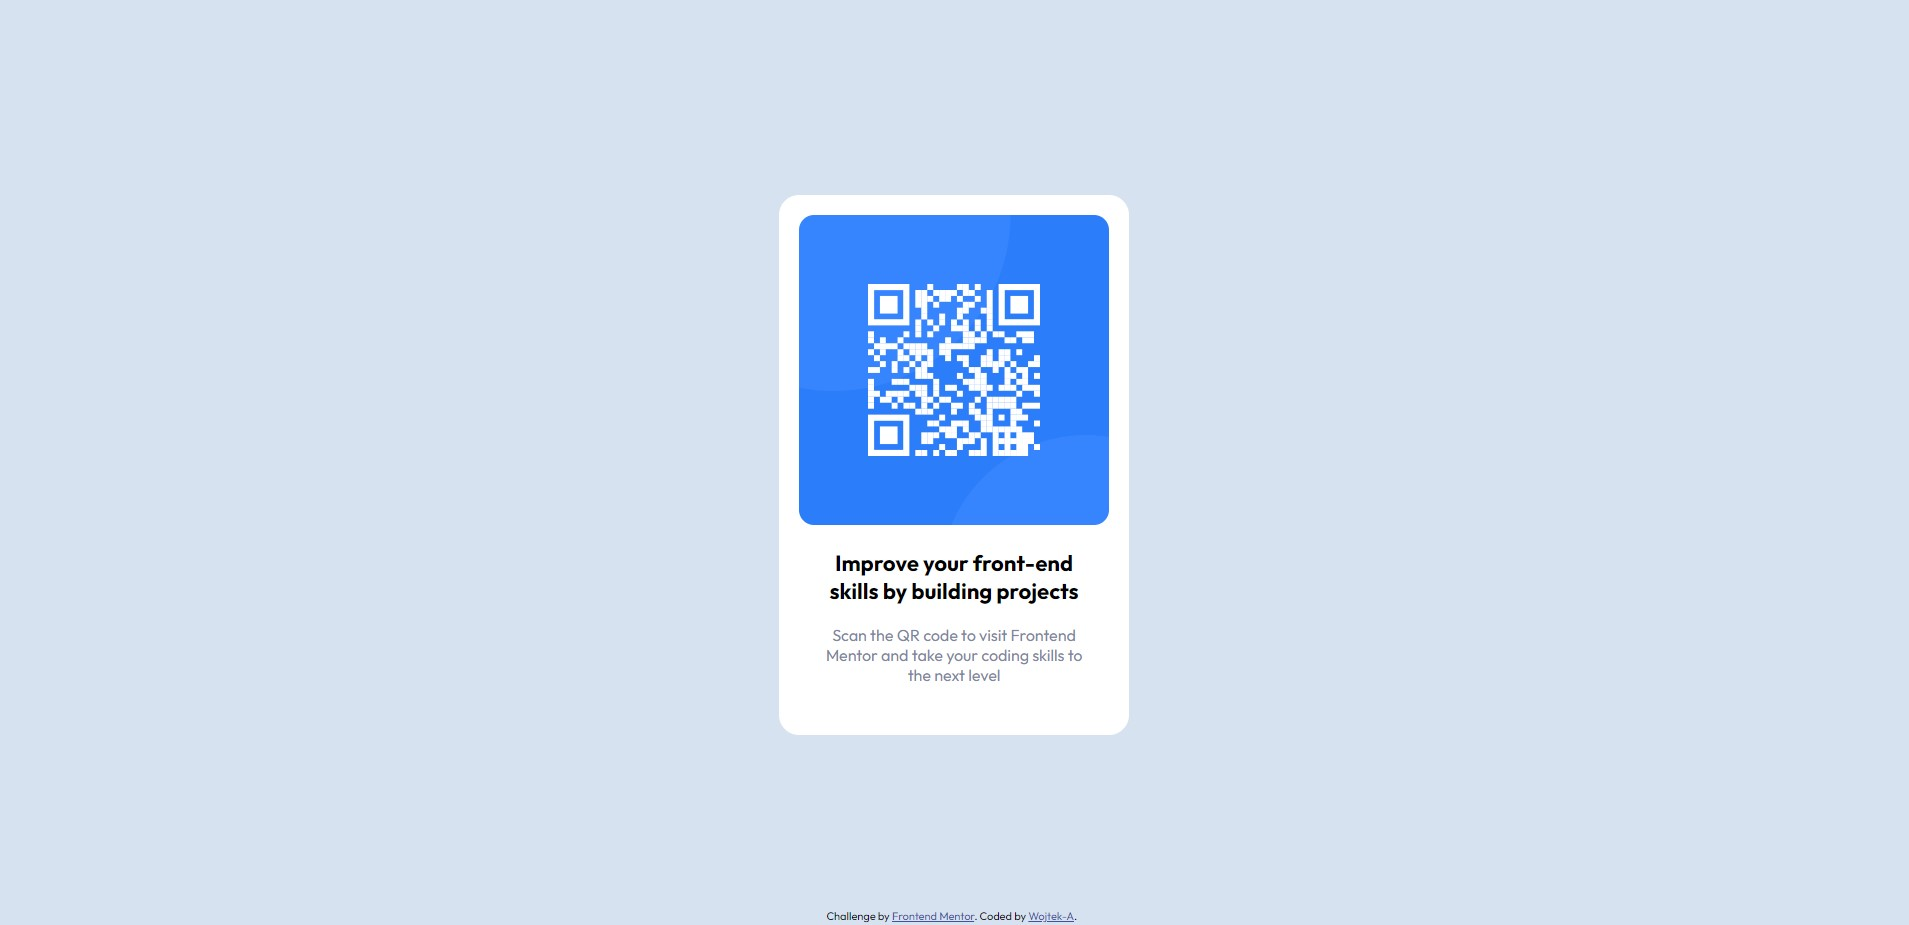
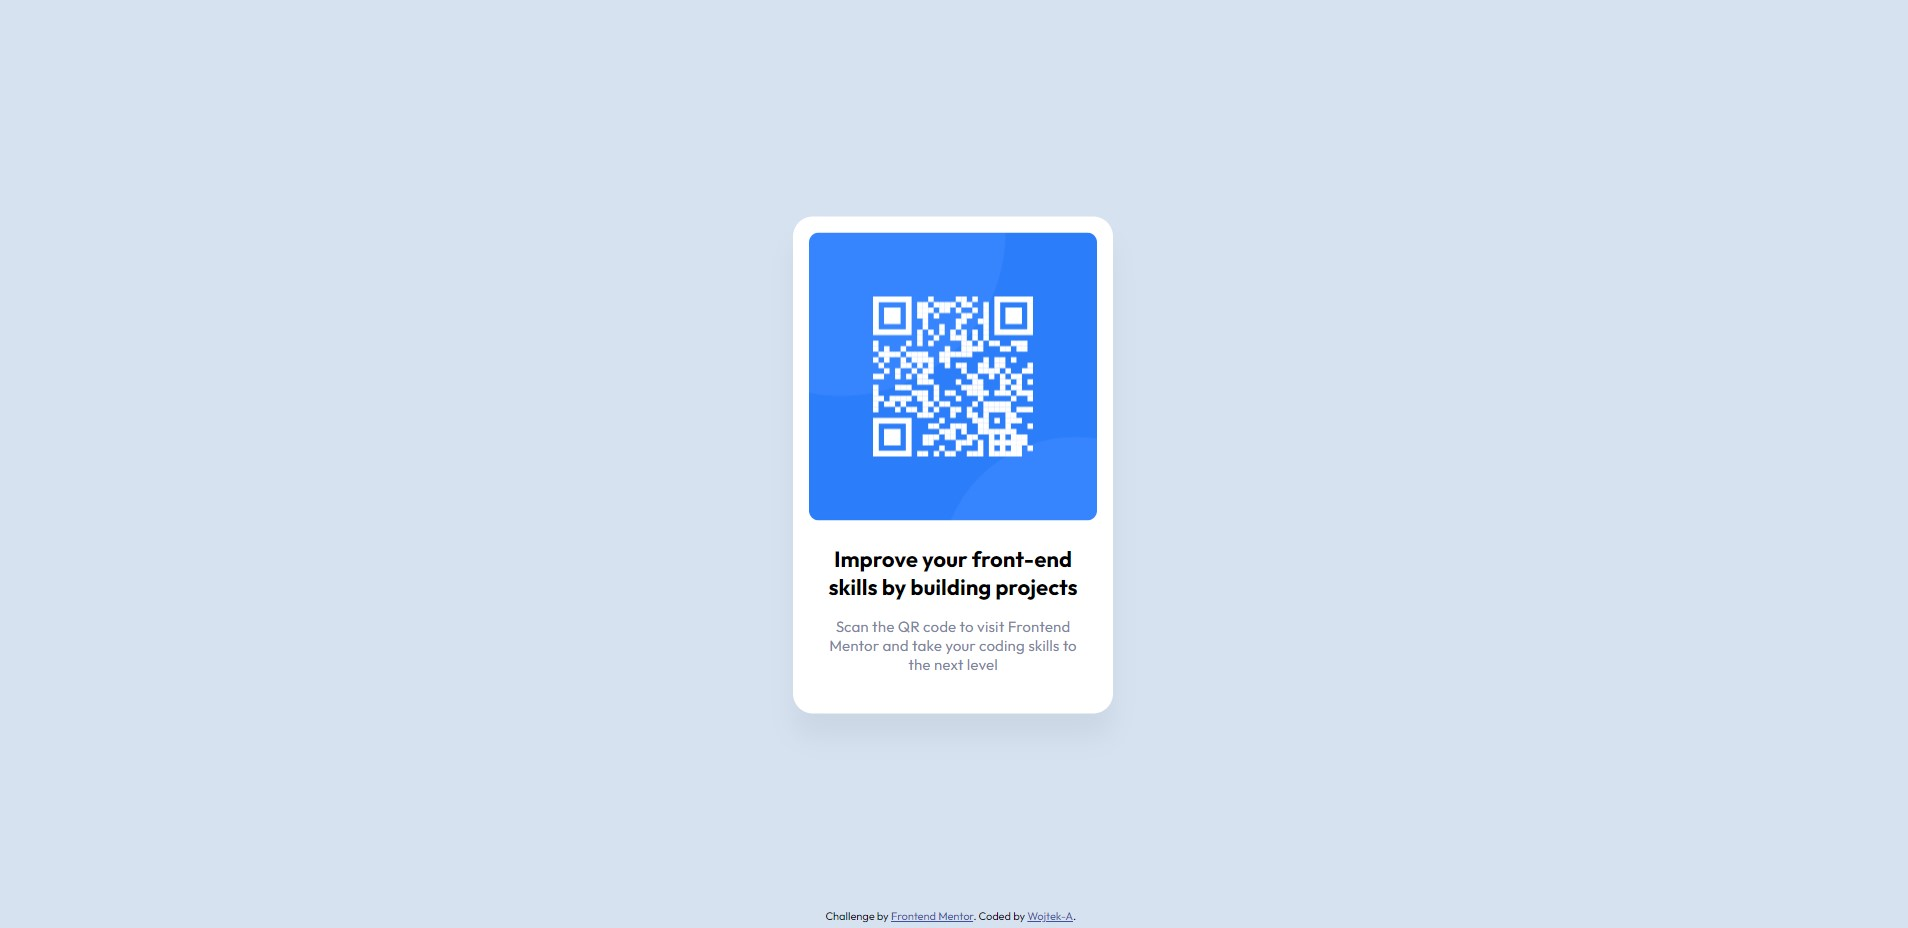
style improvements

Changed region(s): [[0.402, 0.2119, 0.6184, 0.8173], [0.4329, 0.9686, 0.5566, 0.9989]]

diff --git a/index.html b/index.html
@@ -18,22 +18,23 @@
   </head>
   <body>
     <main>
-    <div class="box">
-      <img src="./images/image-qr-code.png" alt="qr code" class="picture" />
-      <div class="text">
-        <h1>Improve your front-end skills by building projects</h1>
-        <p>
-          Scan the QR code to visit Frontend Mentor and take your coding skills
-          to the next level
-        </p>
+      <div class="box">
+        <img src="./images/image-qr-code.png" alt="qr code" class="picture" />
+        <div class="text">
+          <h1>Improve your front-end skills by building projects</h1>
+          <p>
+            Scan the QR code to visit Frontend <br />
+            Mentor and take your coding skills to <br />
+            the next level
+          </p>
+        </div>
       </div>
-    </div>
-    <div class="attribution">
-      Challenge by
-      <a href="https://www.frontendmentor.io?ref=challenge" target="_blank"
-        >Frontend Mentor</a
-      >. Coded by <a href="https://github.com/Wojtek-A">Wojtek-A</a>.
-    </div>
+      <div class="attribution">
+        Challenge by
+        <a href="https://www.frontendmentor.io?ref=challenge" target="_blank"
+          >Frontend Mentor</a
+        >. Coded by <a href="https://github.com/Wojtek-A">Wojtek-A</a>.
+      </div>
     </main>
   </body>
 </html>

diff --git a/css/styles.css b/css/styles.css
@@ -16,10 +16,11 @@ p {
   --dark-blue: hsl(218, 44%, 22%);
 }
 .box {
-  width: 350px;
-  height: 540px;
+  width: 320px;
+  height: 497px;
   border-radius: 20px;
   background-color: var(--white);
+  box-shadow: 0px 25px 25px 0px rgba(0, 0, 0, 0.05);
   position: absolute;
   top: 50%;
   left: 50%;
@@ -27,20 +28,23 @@ p {
   transform: translate(-50%, -50%);
 }
 .picture {
-  margin: 20px;
-  width: 310px;
-  border-radius: 15px;
+  margin: 16px;
+  width: 288px;
+  border-radius: 10px;
 }
 .text {
   text-align: center;
-  width: 260px;
+  width: 288px;
   margin: auto;
 }
 .text p {
-  margin-top: 20px;
+  margin-top: 16px;
+  letter-spacing: 0.188px;
+  font-size: 15px;
   color: var(--grayish-blue);
 }
 .text h1 {
+  margin-top: 4px;
   font-size: 22px;
 }
 .attribution {
